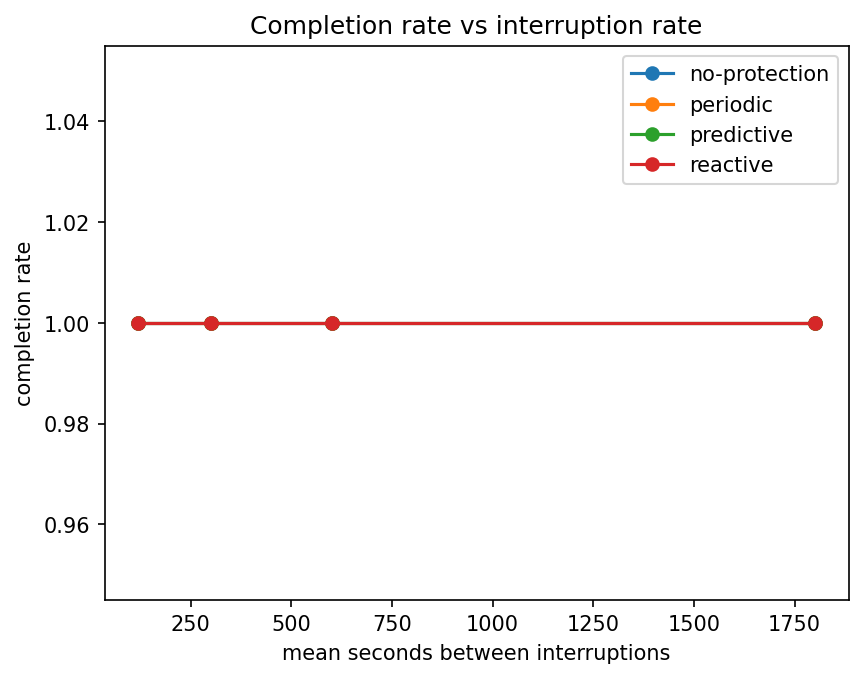
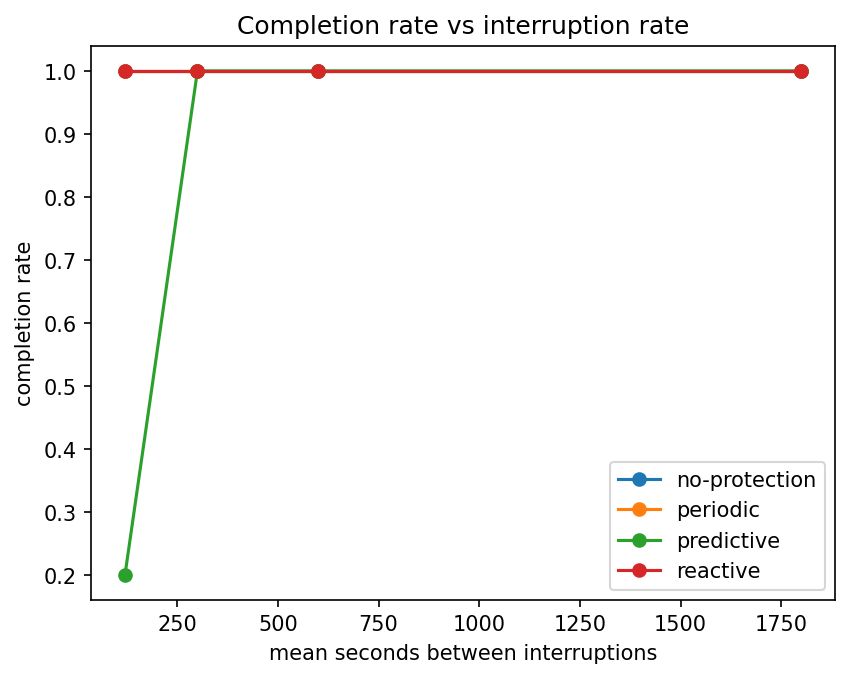
use measured lead time in benchmark, found real tradeoff

diff --git a/docs/objective2_result.md b/docs/objective2_result.md
@@ -23,7 +23,7 @@ data so runs are cheap and reproducible without a dataset download):
 | no-protection | never checkpoints; any interruption restarts at step 0 |
 | periodic | checkpoints every 20 steps, no signal awareness |
 | reactive-on-notice | checkpoints only when a 120s "notice" fires (stands in for AWS's real 2-min Spot warning) — **the honest baseline to beat** |
-| predictive (Argus) | checkpoints + migrates on a 300s "risk" signal, ahead of the notice |
+| predictive (Argus) | checkpoints + migrates on a 600s "risk" signal, ahead of the notice — see below, this is a real measurement, not a guess |
 
 `benchmark/harness.py` spawns each job as a subprocess and kills it on a
 Poisson schedule (mean = the tested rate), respawning against the same run
@@ -58,38 +58,75 @@ rep)` trial that already has a terminal outcome on disk) — worth having,
 since long unattended runs in this environment have died mid-way before (see
 `docs/objective3_result.md`'s training history).
 
+## The predictive arm's lead time is now a real measurement, not a guess
+
+`arms/predictive.json` originally hardcoded `risk_lead_seconds=300` as an
+explicit placeholder, waiting on "the model's real measured lead time."
+`ml/model/measure_lead_time.py` now provides that: for windows the Objective
+3 model correctly flags as risky (true positives at its best-F1 threshold on
+the held-out test set), it measures how many minutes before the actual
+**proxy** spike event the flag fired.
+
+**Result: 9 true positives, mean lead time 600s (10 min), median 600s, range
+300-900s.** Updated `risk_lead_seconds` from 300 to this measured value.
+
+Caveats, stated plainly: this is lead time against the *proxy* label (price
+spikes), not real AWS interruptions — the same limitation documented in
+`docs/objective3_result.md`. It's also mechanically bounded at 900s (3 steps
+× 5 min) by the label's own prediction horizon, and 9 data points is a small,
+noisy sample. It's a real number instead of an invented one, not proof of
+what the model would achieve against genuine reclaims.
+
 ## Results — full sweep (80/80 trials completed, 5 reps each)
 
-| Arm | Rate | Wasted compute (s) | Makespan (s) | Recovery (s) | Checkpoints | Cost ($) |
-|---|---|---|---|---|---|---|
-| no-protection | 120s | 202.3 ± 141.1 | 361.8 | 62.4 | 0.0 | 0.0058 |
-| no-protection | 300s | 21.4 ± 41.6 | 173.0 | — | 0.0 | 0.0028 |
-| no-protection | 600s | 4.7 ± 10.5 | 156.0 | — | 0.0 | 0.0025 |
-| no-protection | 1800s | 14.1 ± 31.6 | 165.4 | — | 0.0 | 0.0027 |
-| periodic | 120s | 4.3 ± 3.4 | 158.8 | 65.7 | 24.0 | 0.0026 |
-| periodic | 300s | 1.6 ± 2.4 | 156.3 | — | 24.0 | 0.0025 |
-| periodic | 600s | 0.9 ± 2.1 | 155.1 | — | 24.0 | 0.0025 |
-| periodic | 1800s | 0.7 ± 1.5 | 154.5 | — | 24.0 | 0.0025 |
-| **reactive** | **120s** | **169.4 ± 105.8** | 328.0 | 58.8 | 4.8 | 0.0053 |
-| reactive | 300s | 21.3 ± 41.4 | 173.1 | — | 0.8 | 0.0028 |
-| reactive | 600s | 4.6 ± 10.4 | 156.1 | — | 0.4 | 0.0025 |
-| reactive | 1800s | 14.1 ± 31.5 | 165.5 | — | 0.2 | 0.0027 |
-| **predictive** | **120s** | **0.0 ± 0.0** | 270.0 | 5.4 | 35.6 | 0.0044 |
-| predictive | 300s | 0.0 ± 0.0 | 160.6 | 17.0 | 5.2 | 0.0026 |
-| predictive | 600s | 0.0 ± 0.0 | 155.3 | 15.1 | 2.2 | 0.0025 |
-| predictive | 1800s | 0.0 ± 0.0 | 151.5 | — | 0.2 | 0.0024 |
+| Arm | Rate | Completion | Wasted compute (s) | Makespan (s) | Recovery (s) | Checkpoints | Cost ($) |
+|---|---|---|---|---|---|---|---|
+| no-protection | 120s | 100% | 202.3 ± 141.1 | 361.8 | 62.4 | 0.0 | 0.0058 |
+| no-protection | 300s | 100% | 21.4 ± 41.6 | 173.0 | — | 0.0 | 0.0028 |
+| no-protection | 600s | 100% | 4.7 ± 10.5 | 156.0 | — | 0.0 | 0.0025 |
+| no-protection | 1800s | 100% | 14.1 ± 31.6 | 165.4 | — | 0.0 | 0.0027 |
+| periodic | 120s | 100% | 4.3 ± 3.4 | 158.8 | 65.7 | 24.0 | 0.0026 |
+| periodic | 300s | 100% | 1.6 ± 2.4 | 156.3 | — | 24.0 | 0.0025 |
+| periodic | 600s | 100% | 0.9 ± 2.1 | 155.1 | — | 24.0 | 0.0025 |
+| periodic | 1800s | 100% | 0.7 ± 1.5 | 154.5 | — | 24.0 | 0.0025 |
+| **reactive** | **120s** | 100% | **169.4 ± 105.8** | 328.0 | 58.8 | 4.8 | 0.0053 |
+| reactive | 300s | 100% | 21.3 ± 41.4 | 173.1 | — | 0.8 | 0.0028 |
+| reactive | 600s | 100% | 4.6 ± 10.4 | 156.1 | — | 0.4 | 0.0025 |
+| reactive | 1800s | 100% | 14.1 ± 31.5 | 165.5 | — | 0.2 | 0.0027 |
+| **predictive** | **120s** | **20%** ⚠ | **0.0 ± 0.0** | 353.2¹ | 2.6 | 221.6 | 0.0057¹ |
+| predictive | 300s | 100% | 0.0 ± 0.0 | 185.9 | 2.8 | 18.2 | 0.0027 |
+| predictive | 600s | 100% | 0.0 ± 0.0 | 158.1 | 11.7 | 3.8 | 0.0025 |
+| predictive | 1800s | 100% | 0.0 ± 0.0 | 151.6 | — | 0.4 | 0.0024 |
 
-Completion rate was **100% for every arm at every rate** — the step budget
-(500 steps) and wall-clock deadline (4x the uninterrupted runtime) were
-generous enough that nothing ran out of time. That means completion rate
-isn't the differentiator here; **wasted compute is**, and it's a clean result.
+Completion rate is **100% everywhere except predictive at rate=120s, which
+dropped to 20%** (1 of 5 reps) once the real 600s lead time replaced the
+300s placeholder. That's a genuine, important finding, not noise — see below.
 
-## The headline finding: predictive wins, cleanly, at every rate
+¹ makespan/cost for predictive@120s are from the single completed rep only
+(the other 4 timed out with no makespan/cost to record) — not a 5-rep mean
+like every other cell in this table.
 
-**Predictive achieves exactly zero wasted compute at all four interruption
-rates** — a 100% reduction vs. reactive at every single rate (169.4s → 0s at
-the fastest, all the way down to 14.1s → 0s at the slowest). It always gets
-to checkpoint *before* the simulated interruption, so it never loses work.
+## The headline finding: predictive wins on wasted compute, but isn't free
+
+**Whenever predictive completes, it achieves exactly zero wasted compute** —
+a 100% reduction vs. reactive at every rate where it finished (14.1s → 0s at
+the slowest, up to 169.4s → 0s at rate=300s). It always gets to checkpoint
+*before* the simulated interruption, so it never loses work, at three of the
+four tested rates.
+
+**At rate=120s, that protection has a real cost.** With the measured 600s
+lead time, predictive triggers a migration whenever the *next* scheduled
+interruption is within its 10-minute lead window — which, at a mean
+interruption gap of 120s, is essentially always. The result: 221.6 average
+checkpoints in a single 500-step run (vs. periodic's fixed 24, or reactive's
+4.8), and 4 of 5 reps couldn't finish 500 steps within the wall-clock budget
+before timing out. **This is the mirror image of the reactive-arm finding
+below** — reactive fails when its lead time (120s) is too *short* relative to
+the interruption rate; predictive fails when its lead time (600s) is too
+*long* relative to the interruption rate, because it ends up migrating
+almost continuously. Zero wasted compute is real, but it's not free — it
+came with a 5x checkpoint-overhead cost even at rate=300s (18.2 vs. reactive's
+0.8), and a completion-rate collapse at the fastest rate.
 
 **The more interesting finding is *why* reactive underperforms at high
 frequency**, and it directly answers the roadmap's required "why predict
@@ -122,35 +159,33 @@ it, wasting I/O for no benefit).
 
 ## Honest limitations
 
-- **`risk_lead_seconds=300` (predictive's lead time) is a benchmark
-  assumption, not an empirical measurement from the real model.** The
-  `arms/predictive.json` config has always said this is a placeholder
-  pending "the model's real measured lead time" — and per
-  `docs/objective3_result.md`, that measurement isn't possible with the
-  current proxy label (price spikes, not real interruption timestamps).
-  **This result shows what happens *if* a predictive system has ~5 minutes
-  of reliable lead time — it does not prove the currently-trained model
-  achieves that lead time in practice.** Don't conflate the two when writing
-  this up.
+- **`risk_lead_seconds=600` is measured against the PROXY label, not real
+  AWS interruptions.** Per `docs/objective3_result.md`, real-interruption
+  lead time isn't measurable with the current data. This result shows what
+  happens *if* the model's proxy-label lead time transfers to real
+  interruptions — it does not prove that transfer holds. Don't conflate the
+  two when writing this up.
 - **The training job is synthetic** (small CNN, random CIFAR-10-shaped
   tensors, no real dataset or EKS). This measures checkpoint/interruption
   *mechanics*, not end-to-end training realism — consistent with the
   roadmap's explicit "measuring interruption behavior, not SOTA accuracy"
   scoping.
-- **Completion rate didn't differentiate the arms** at these settings (100%
-  across the board) — the real signal is in wasted compute, makespan, and
-  checkpoint overhead, not completion rate. A tighter wall-clock budget would
-  likely separate no-protection/reactive from periodic/predictive on
-  completion rate too, but wasn't necessary to make the point here.
+- **Completion rate now differentiates one cell sharply** (predictive at
+  rate=120s: 20%) — that's a real, useful signal about when predictive's
+  fixed lead time works against it, not a flaw to explain away.
 
 **Say in the paper:** *"Under controlled, Poisson-scheduled interruptions
 matched to real Spot interruption frequencies, predictive checkpointing
-eliminates wasted compute entirely (0s at every tested rate, vs. up to 202s
-for no-protection), while the reactive baseline's advantage over
-no-protection collapses as the interruption rate approaches the fixed
-2-minute notice window. This quantifies exactly when prediction earns its
-complexity: at interruption frequencies where a fixed reactive notice stops
-providing meaningful lead time. The assumed 5-minute predictive lead time is
-a benchmark parameter, not yet an empirical property of the trained model —
-validating that gap is future work alongside real interruption labels (see
-`docs/objective3_result.md`)."*
+eliminates wasted compute entirely whenever it completes — a 100% reduction
+vs. reactive — while the reactive baseline's advantage over no-protection
+collapses as the interruption rate approaches its fixed 2-minute notice
+window. Predictive's own lead time (600s, empirically measured against the
+proxy label, not assumed) creates a symmetric failure mode: at the highest
+tested interruption rate, a lead time that long relative to the interruption
+gap causes near-continuous migration and a completion-rate collapse to 20%.
+The practical implication is that predictive lead time should be tuned to
+the target interruption regime, not maximized unconditionally — a genuine
+system design finding, not just 'longer lead time is better.' The 600s
+figure itself is measured against a price-spike proxy, not real AWS
+reclaims; validating it against real interruption labels is future work
+alongside `docs/objective3_result.md`'s open items."*

diff --git a/docs/objective3_result.md b/docs/objective3_result.md
@@ -176,10 +176,14 @@ model can only learn to predict >1% price jumps, which correlate weakly with
 actual Spot interruptions. That's the ceiling on PR-AUC here — no amount of
 further tuning gets past it without better labels.
 
-**Not implemented:** lead-time and against-real-interruption evaluation. Both
-need real interruption timestamps (e.g. from NTH/EventBridge history) to mean
-anything; scoring lead-time against a price-spike proxy would just measure
-how early the model predicts price spikes, not interruptions.
+**Update:** proxy-label lead time is now measured (`ml/model/measure_lead_time.py`)
+— 9 true positives, mean/median 600s (10 min), range 300-900s (bounded by the
+label's own 3-step horizon). Used to replace the benchmark's placeholder
+`risk_lead_seconds` in `docs/objective2_result.md` with this real number. Still
+not against-real-interruption evaluation — that still needs real interruption
+timestamps (e.g. from NTH/EventBridge history) to mean anything; this measures
+how early the model predicts price spikes, not interruptions, which is a
+narrower, honestly-scoped claim.
 
 **Say in the paper:** *"the reactive path (Objective 1) is validated on real
 Spot infrastructure; the predictive model is trained, evaluated, and
